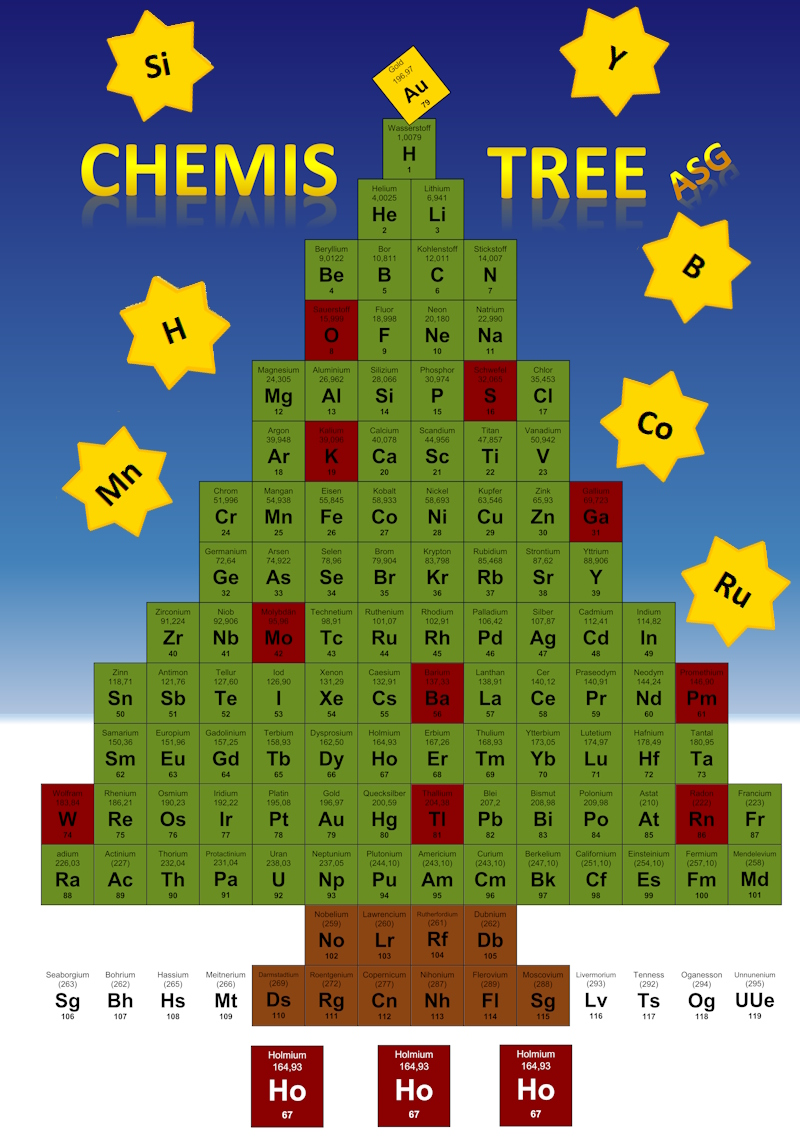
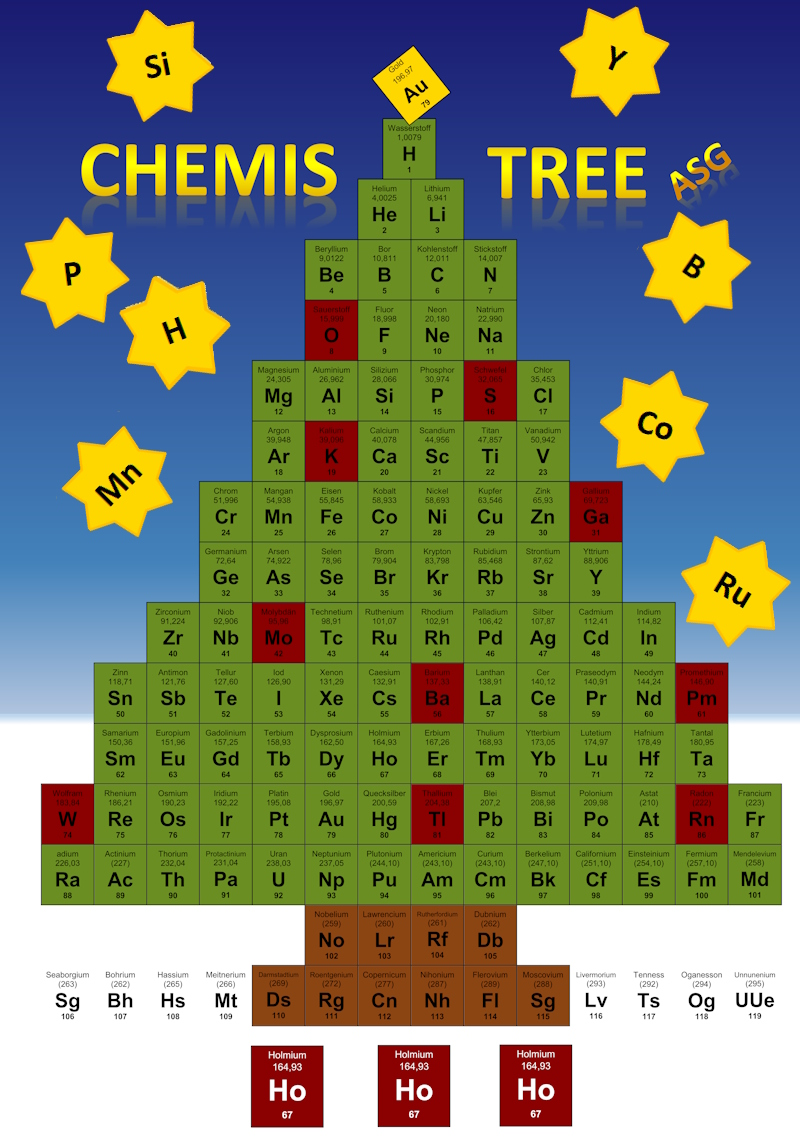
Add files via upload

Changed region(s): [[0.0312, 0.1847, 0.1562, 0.3078]]

diff --git a/index.html b/index.html
@@ -131,8 +131,8 @@
 <body>
   <script>
   // ❄ Schnee-Effekt bleibt unverändert
-  const snowCount = 70;
-  const sparkle = ["❄", "✦", "✧", "❅"];
+  const snowCount = 90;
+  const sparkle = ["❄", "✦", "✧", "❅", "❉", "❊", "✺", "✻"];
   for (let i = 0; i < snowCount; i++) {
     let snowflake = document.createElement("div");
     snowflake.classList.add("snowflake");
@@ -274,6 +274,17 @@
          style="left:29.625%; top:92.348%; width:42.000%; height:7.652%;">
         <span class="tooltip">Eine frohe Adventszeit euch allen!</span>
       </a>
+
+      <a class="hotspot" href="#" aria-label="19" data-element="Gold"
+        style="left:45.875%; top:3.342%; width:10.25%; height:7.476%;">
+        <span class="tooltip">D.König (nicht mehr am ASG)</span>
+      </a>
+
+      <a class="hotspot" href="#" aria-label="20" data-element="Phosphor"
+       style="left:3.0%; top:19.701%; width:11.25%; height:8.355%;">
+        <span class="tooltip">S.Schuster-Pioro</span>
+      </a>
+           
     </div>
   </div>
 </body>
